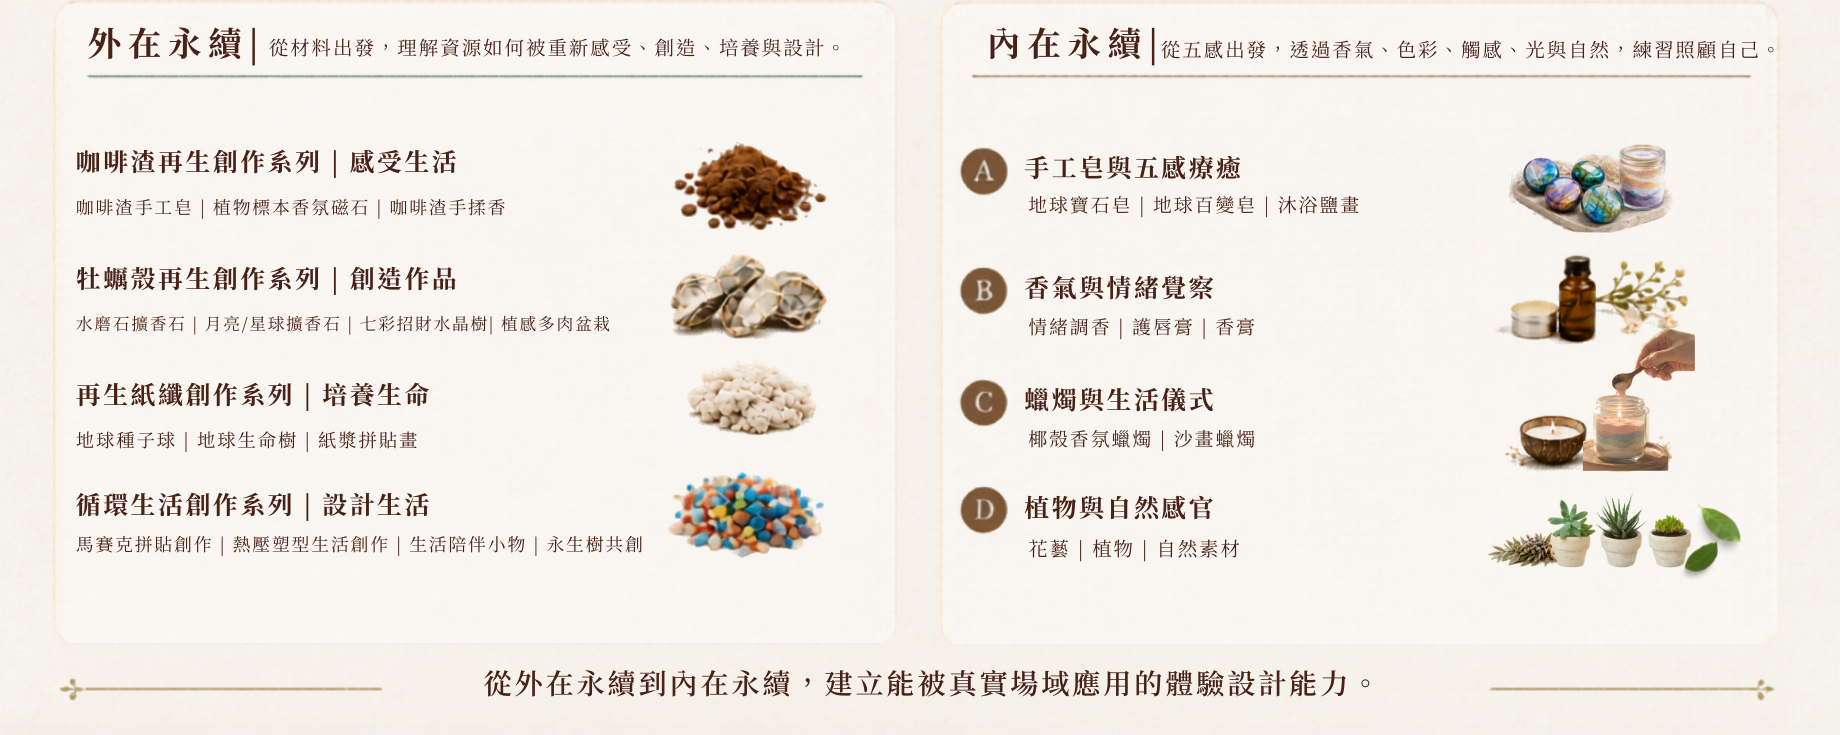
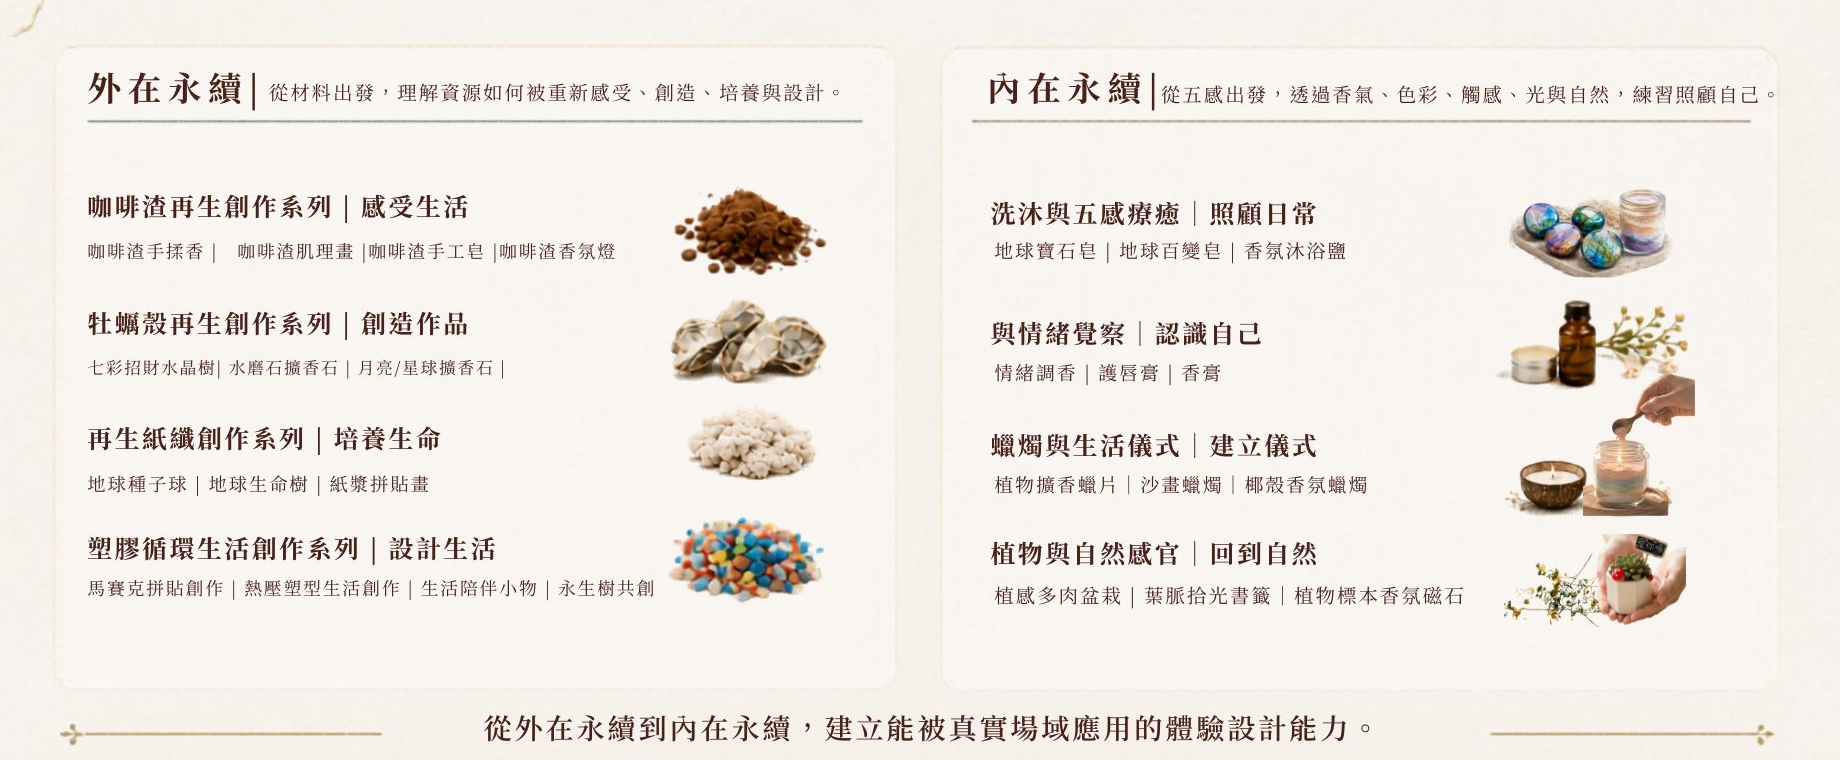
招生頁: P7八大課程家族新圖替換courses-body + 四大篇章↔六層能力對調(旅程在前/能力收束) + 文案微調

diff --git a/academy/index.html b/academy/index.html
@@ -410,19 +410,8 @@
   </div>
 </section>
 
-<!-- ===== 6.5 六層核心能力地圖 ===== -->
+<!-- ===== 6.5 四大篇章·八核心單元（課程結構·旅程在前）===== -->
 <section style="padding-top:48px;">
-  <div class="wrap">
-    <p class="bridge-copy">
-      走過這六個階段，<br>
-      你會慢慢長出六層核心能力。
-    </p>
-    <img class="section-img section-img--bleed" style="margin-top:28px;" src="assets/section-sixlayer.png" alt="六層核心能力地圖：01 理解世界（從永續與材料重新認識世界的運作）、02 讓永續被理解（把理念轉成一般人聽得懂的語言與故事）、03 把想法做出來（用材料與手作把概念變成可被體驗的作品）、04 走進真實場域（走進企業、校園、品牌的真實需求）、05 讓成果被看見（成果整理與交付力，讓努力被看見）、06 整理自己的路（把走過的歷程整理成自己的方向）。" loading="lazy">
-  </div>
-</section>
-
-<!-- ===== 6.7 四大篇章·八核心單元（課程結構）===== -->
-<section style="padding-top:36px;">
   <div class="wrap">
     <div class="center">
       <span class="kicker">Four Chapters · Eight Core Modules</span>
@@ -430,6 +419,17 @@
       <p class="section-lead">從材料開始，一步一步學會把永續設計成能走進真實世界的體驗。</p>
     </div>
     <img class="section-img section-img--bleed" style="margin-top:28px;" src="assets/section-chapters.png" alt="四大篇章·八個核心單元：① 通識篇（Ch1 重新認識永續材料、Ch2 材料敘事與體驗設計）、② 手作篇（Ch3 永續工作坊設計）、③ 商業篇（Ch4 永續體驗場域應用、Ch5 永續產品與品牌合作、Ch6 場域合作與方案設計）、④ 個案篇（Ch7 真實任務流程拆解、Ch8 整理你的永續行動系統能力）。" loading="lazy">
+  </div>
+</section>
+
+<!-- ===== 6.7 六層核心能力地圖（成果在後·收束）===== -->
+<section style="padding-top:36px;">
+  <div class="wrap">
+    <p class="bridge-copy">
+      走過這四大篇章／八個單元，<br>
+      你會慢慢長出六層核心能力。
+    </p>
+    <img class="section-img section-img--bleed" style="margin-top:28px;" src="assets/section-sixlayer.png" alt="六層核心能力地圖：01 理解世界（從永續與材料重新認識世界的運作）、02 讓永續被理解（把理念轉成一般人聽得懂的語言與故事）、03 把想法做出來（用材料與手作把概念變成可被體驗的作品）、04 走進真實場域（走進企業、校園、品牌的真實需求）、05 讓成果被看見（成果整理與交付力，讓努力被看見）、06 整理自己的路（把走過的歷程整理成自己的方向）。" loading="lazy">
   </div>
 </section>
 
@@ -442,7 +442,7 @@
       <h2 class="section-title">八大課程家族 × 25 堂代表課程方案庫</h2>
       <p class="section-lead">Wishlite 的永續體驗，涵蓋：材料循環、生活設計、五感療癒、光／香氣與自然。<br>不是作品清單，而是一套永續體驗方案庫。</p>
     </div>
-    <img class="section-img section-img--bleed" style="margin-top:32px;" src="assets/courses-body.png" alt="外在永續：咖啡渣再生創作（感受生活）、牡蠣殼再生創作（創造作品）、再生紙纖創作（培養生命）、循環生活創作（設計生活）；內在永續：A 手工皂與五感療癒、B 香氣與情緒覺察、C 蠟燭與生活儀式、D 植物與自然感官。從外在永續到內在永續，建立能被真實場域應用的體驗設計能力。" loading="lazy">
+    <img class="section-img section-img--bleed" style="margin-top:32px;" src="assets/courses-body.png" alt="外在永續：咖啡渣再生創作（感受生活）、牡蠣殼再生創作（創造作品）、再生紙纖創作（培養生命）、循環生活創作（設計生活）；內在永續：A 洗沐與五感療癒（地球寶石皂、地球百變皂、香氛沐浴鹽）、B 香氣與情緒覺察（情緒調香、護唇膏、香膏）、C 蠟燭與生活儀式（植物擴香蠟片、沙畫蠟燭、椰殼香氛蠟燭）、D 植物與自然感官（植感多肉盆栽、葉脈拾光書籤、植物標本香氛磁石）。從外在永續到內在永續，建立能被真實場域應用的體驗設計能力。" loading="lazy">
   </div>
 </section>
 
